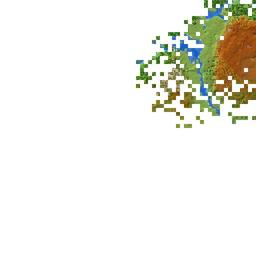
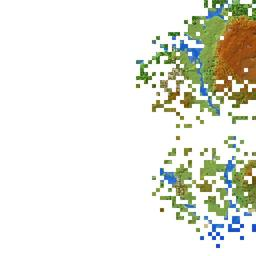
map update

Changed region(s): [[0.5938, 0.5312, 1.0, 0.9688], [0.6875, 0.5312, 0.7188, 0.5625], [0.625, 0.8125, 0.6562, 0.8438]]

diff --git a/public/unmined/unmined.map.regions.js b/public/unmined/unmined.map.regions.js
@@ -1,6 +1,6 @@
 var UnminedRegions = [
 { x: 0, z: 0, m: new Uint32Array([524291,0,0,0,0,0,0,0,0,0,0,0,0,0,0,0,0,786432,786432,524288,0,0,0,0,0,0,0,0,0,0,0,0,0,0,0,0,0,0,0,0,0,0,0,0,0,0,0,0,0,0,0,0,0,0,0,0,0,0,0,0,0,0,0,0,0,0,0,0,0,0,0,0,0,0,0,0,0,0,0,0,0,0,0,0,0,0,0,0,0,0,0,0,0,0,0,0,0,0,0,0,0,0,0,0,0,0,0,0,0,0,0,0,0,0,0,0,0,0,0,0,0,0,0,0,0,0,0,0,0,0,0,0,0,0,0,0,0,0,0,0,0,0,0,0,0,0,0,0,0,0,0,0,0,0,0,0,0,0,0,0,0,0,0,0,0,0,0,0,0,0,0,0,0,0,0,0,0,0,0,0,0,0,0,0,0,0,0,0,0,0,0,0,0,0,0,0,0,0,0,0,0,0,0,0,0,0,0,0,0,0,0,0,0,0,0,0,0,0,0,0,0,0,0,0,0,0,0,0,0,0,0,0,0,0,0,0,0,0,0,0,0,0,0,0,0,0,0,0,0,0,0,0,0,0,0,0]) },
-{ x: -1, z: -1, m: new Uint32Array([0,0,0,0,0,0,0,0,0,0,0,2147483648,2147483648,0,0,0,0,0,0,0,0,0,0,0,0,0,0,0,0,2147483648,2147508224,3221352448,0,0,0,0,0,0,0,0,0,0,0,0,0,0,0,0,0,0,0,0,0,0,0,0,0,0,0,0,0,0,0,0,0,0,0,0,0,0,0,0,0,0,0,0,0,0,0,0,0,0,0,0,0,0,0,0,0,0,0,0,0,0,0,0,0,0,0,0,0,0,0,0,0,0,0,0,0,0,0,0,0,0,0,0,0,0,0,0,0,0,0,0,0,0,0,0,0,0,0,0,0,0,0,0,0,0,0,0,0,0,0,0,0,0,0,0,0,0,0,0,0,0,0,0,0,0,0,0,0,0,0,0,0,0,0,0,0,0,0,0,0,0,0,0,0,0,0,0,0,0,0,0,0,0,0,0,0,0,0,0,0,0,0,0,0,0,0,0,0,0,0,0,0,0,0,0,0,0,0,0,0,0,0,0,0,0,0,0,0,0,0,0,0,0,0,0,0,0,0,0,0,0,0,0,0,0,0,0,0,0,0,0,0,0,0,0,0,0,0,0,0,0,0,0]) },
+{ x: -1, z: -1, m: new Uint32Array([0,0,0,0,0,0,0,0,0,0,0,2147483648,2147483648,2147483648,0,0,0,0,0,0,0,0,0,0,0,0,0,0,0,2147483648,2147508224,3221352448,0,0,0,0,0,0,0,0,0,0,0,0,0,0,0,0,0,0,0,0,0,0,0,0,0,0,0,0,0,0,0,0,0,0,0,0,0,0,0,0,0,0,0,0,0,0,0,0,0,0,0,0,0,0,0,0,0,0,0,0,0,0,0,0,0,0,0,0,0,0,0,0,0,0,0,0,0,0,0,0,0,0,0,0,0,0,0,0,0,0,0,0,0,0,0,0,0,0,0,0,0,0,0,0,0,0,0,0,0,0,0,0,0,0,0,0,0,0,0,0,0,0,0,0,0,0,0,0,0,0,0,0,0,0,0,0,0,0,0,0,0,0,0,0,0,0,0,0,0,0,0,0,0,0,0,0,0,0,0,0,0,0,0,0,0,0,0,0,0,0,0,0,0,0,0,0,0,0,0,0,0,0,0,0,0,0,0,0,0,0,0,0,0,0,0,0,0,0,0,0,0,0,0,0,0,0,0,0,0,0,0,0,0,0,0,0,0,0,0,0,0,0,0,0]) },
 { x: -1, z: 0, m: new Uint32Array([3221352448,2147532800,0,0,0,0,0,0,0,0,0,0,0,0,0,0,0,0,0,0,0,0,0,0,0,0,0,0,0,0,0,0,0,0,0,0,0,0,0,0,0,0,0,0,0,0,0,0,0,0,0,0,0,0,0,0,0,0,0,0,0,0,0,0,0,0,0,0,0,0,0,0,0,0,0,0,0,0,0,0,0,0,0,0,0,0,0,0,0,0,0,0,0,0,0,0,0,0,0,0,0,0,0,0,0,0,0,0,0,0,0,0,0,0,0,0,0,0,0,0,0,0,0,0,0,0,0,0,0,0,0,0,0,0,0,0,0,0,0,0,0,0,0,0,0,0,0,0,0,0,0,0,0,0,0,0,0,0,0,0,0,0,0,0,0,0,0,0,0,0,0,0,0,0,0,0,0,0,0,0,0,0,0,0,0,0,0,0,0,0,0,0,0,0,0,0,0,0,0,0,0,0,0,0,0,0,0,0,0,0,0,0,0,0,0,0,0,0,0,0,0,0,0,0,0,0,0,0,0,0,0,0,0,0,0,0,0,0,0,0,0,0,0,0,0,0,0,0,0,0,0,0,0,0,0,0]) },
-{ x: 0, z: -1, m: new Uint32Array([0,0,0,0,0,0,0,0,0,0,0,1,1,1,0,0,0,0,0,0,0,0,0,0,0,0,0,0,2,3,1,3,0,0,0,0,0,0,0,0,0,0,0,0,0,0,0,0,0,0,0,0,0,0,0,0,0,0,0,0,0,0,0,0,0,0,0,0,0,0,0,0,0,0,0,0,0,0,0,0,0,0,0,0,0,0,0,0,0,0,0,0,0,0,0,0,0,0,0,0,0,0,0,0,0,0,0,0,0,0,0,0,0,0,0,0,0,0,0,0,0,0,0,0,0,0,0,0,0,0,0,0,0,0,0,0,0,0,0,0,0,0,0,0,0,0,0,0,0,0,0,0,0,0,0,0,0,0,0,0,0,0,0,0,0,0,0,0,0,0,0,0,0,0,0,0,0,0,0,0,0,0,0,0,0,0,0,0,0,0,0,0,0,0,0,0,0,0,0,0,0,0,0,0,0,0,0,0,0,0,0,0,0,0,0,0,0,0,0,0,0,0,0,0,0,0,0,0,0,0,0,0,0,0,0,0,0,0,0,0,0,0,0,0,0,0,0,0,0,0,0,0,0,0,0,0]) },
+{ x: 0, z: -1, m: new Uint32Array([0,0,0,0,0,0,0,0,0,0,0,1,3,3,2,0,0,0,0,0,0,0,0,0,0,0,0,0,2,3,1,3,0,0,0,0,0,0,0,0,0,0,0,0,0,0,0,0,0,0,0,0,0,0,0,0,0,0,0,0,0,0,0,0,0,0,0,0,0,0,0,0,0,0,0,0,0,0,0,0,0,0,0,0,0,0,0,0,0,0,0,0,0,0,0,0,0,0,0,0,0,0,0,0,0,0,0,0,0,0,0,0,0,0,0,0,0,0,0,0,0,0,0,0,0,0,0,0,0,0,0,0,0,0,0,0,0,0,0,0,0,0,0,0,0,0,0,0,0,0,0,0,0,0,0,0,0,0,0,0,0,0,0,0,0,0,0,0,0,0,0,0,0,0,0,0,0,0,0,0,0,0,0,0,0,0,0,0,0,0,0,0,0,0,0,0,0,0,0,0,0,0,0,0,0,0,0,0,0,0,0,0,0,0,0,0,0,0,0,0,0,0,0,0,0,0,0,0,0,0,0,0,0,0,0,0,0,0,0,0,0,0,0,0,0,0,0,0,0,0,0,0,0,0,0,0]) },
 ];
